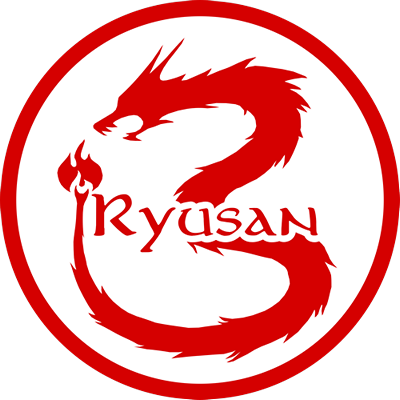
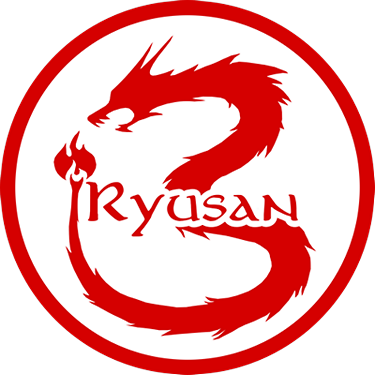
update index, resize img

diff --git a/index.html b/index.html
@@ -26,7 +26,7 @@
                 <div class="row">
                     <div class="col-md-6 col-lg-offset-3 text-center">
                         <img src="img/iRyusan.png">
-                        <h2>A Software Testing Company</h2>
+                        <h3>A Software Testing Company</h3>
                     </div>
                 </div>
             </div>
